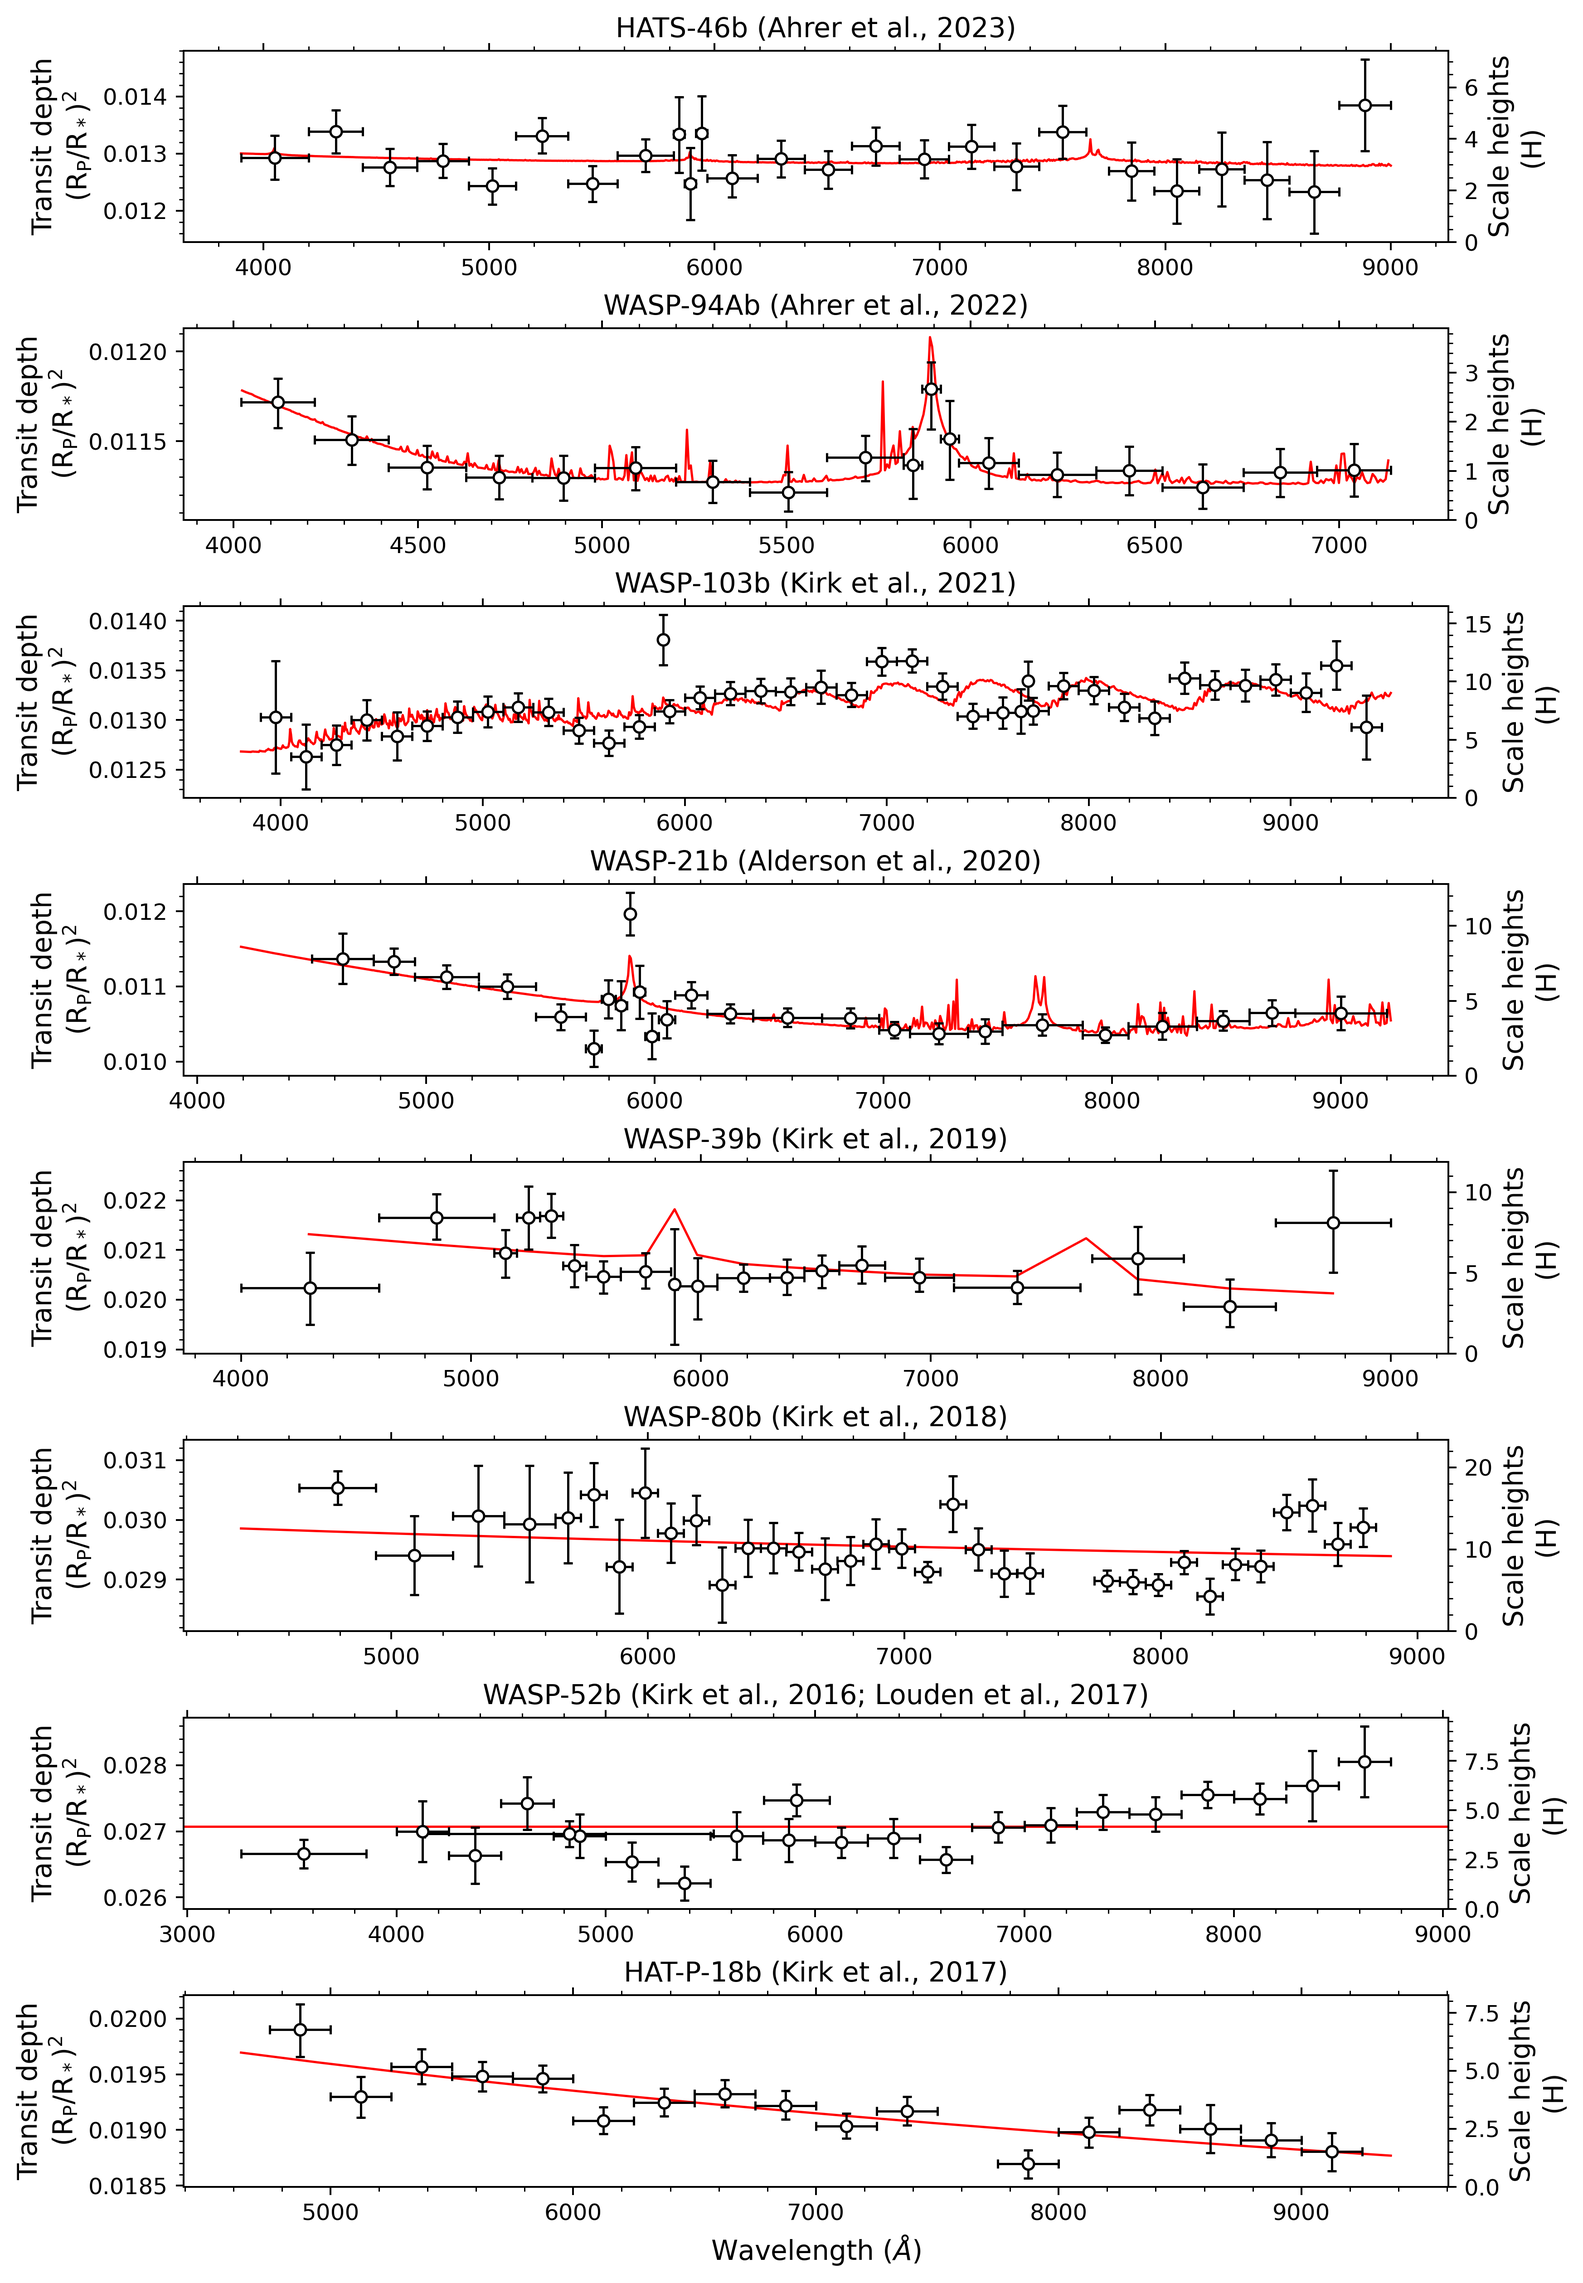
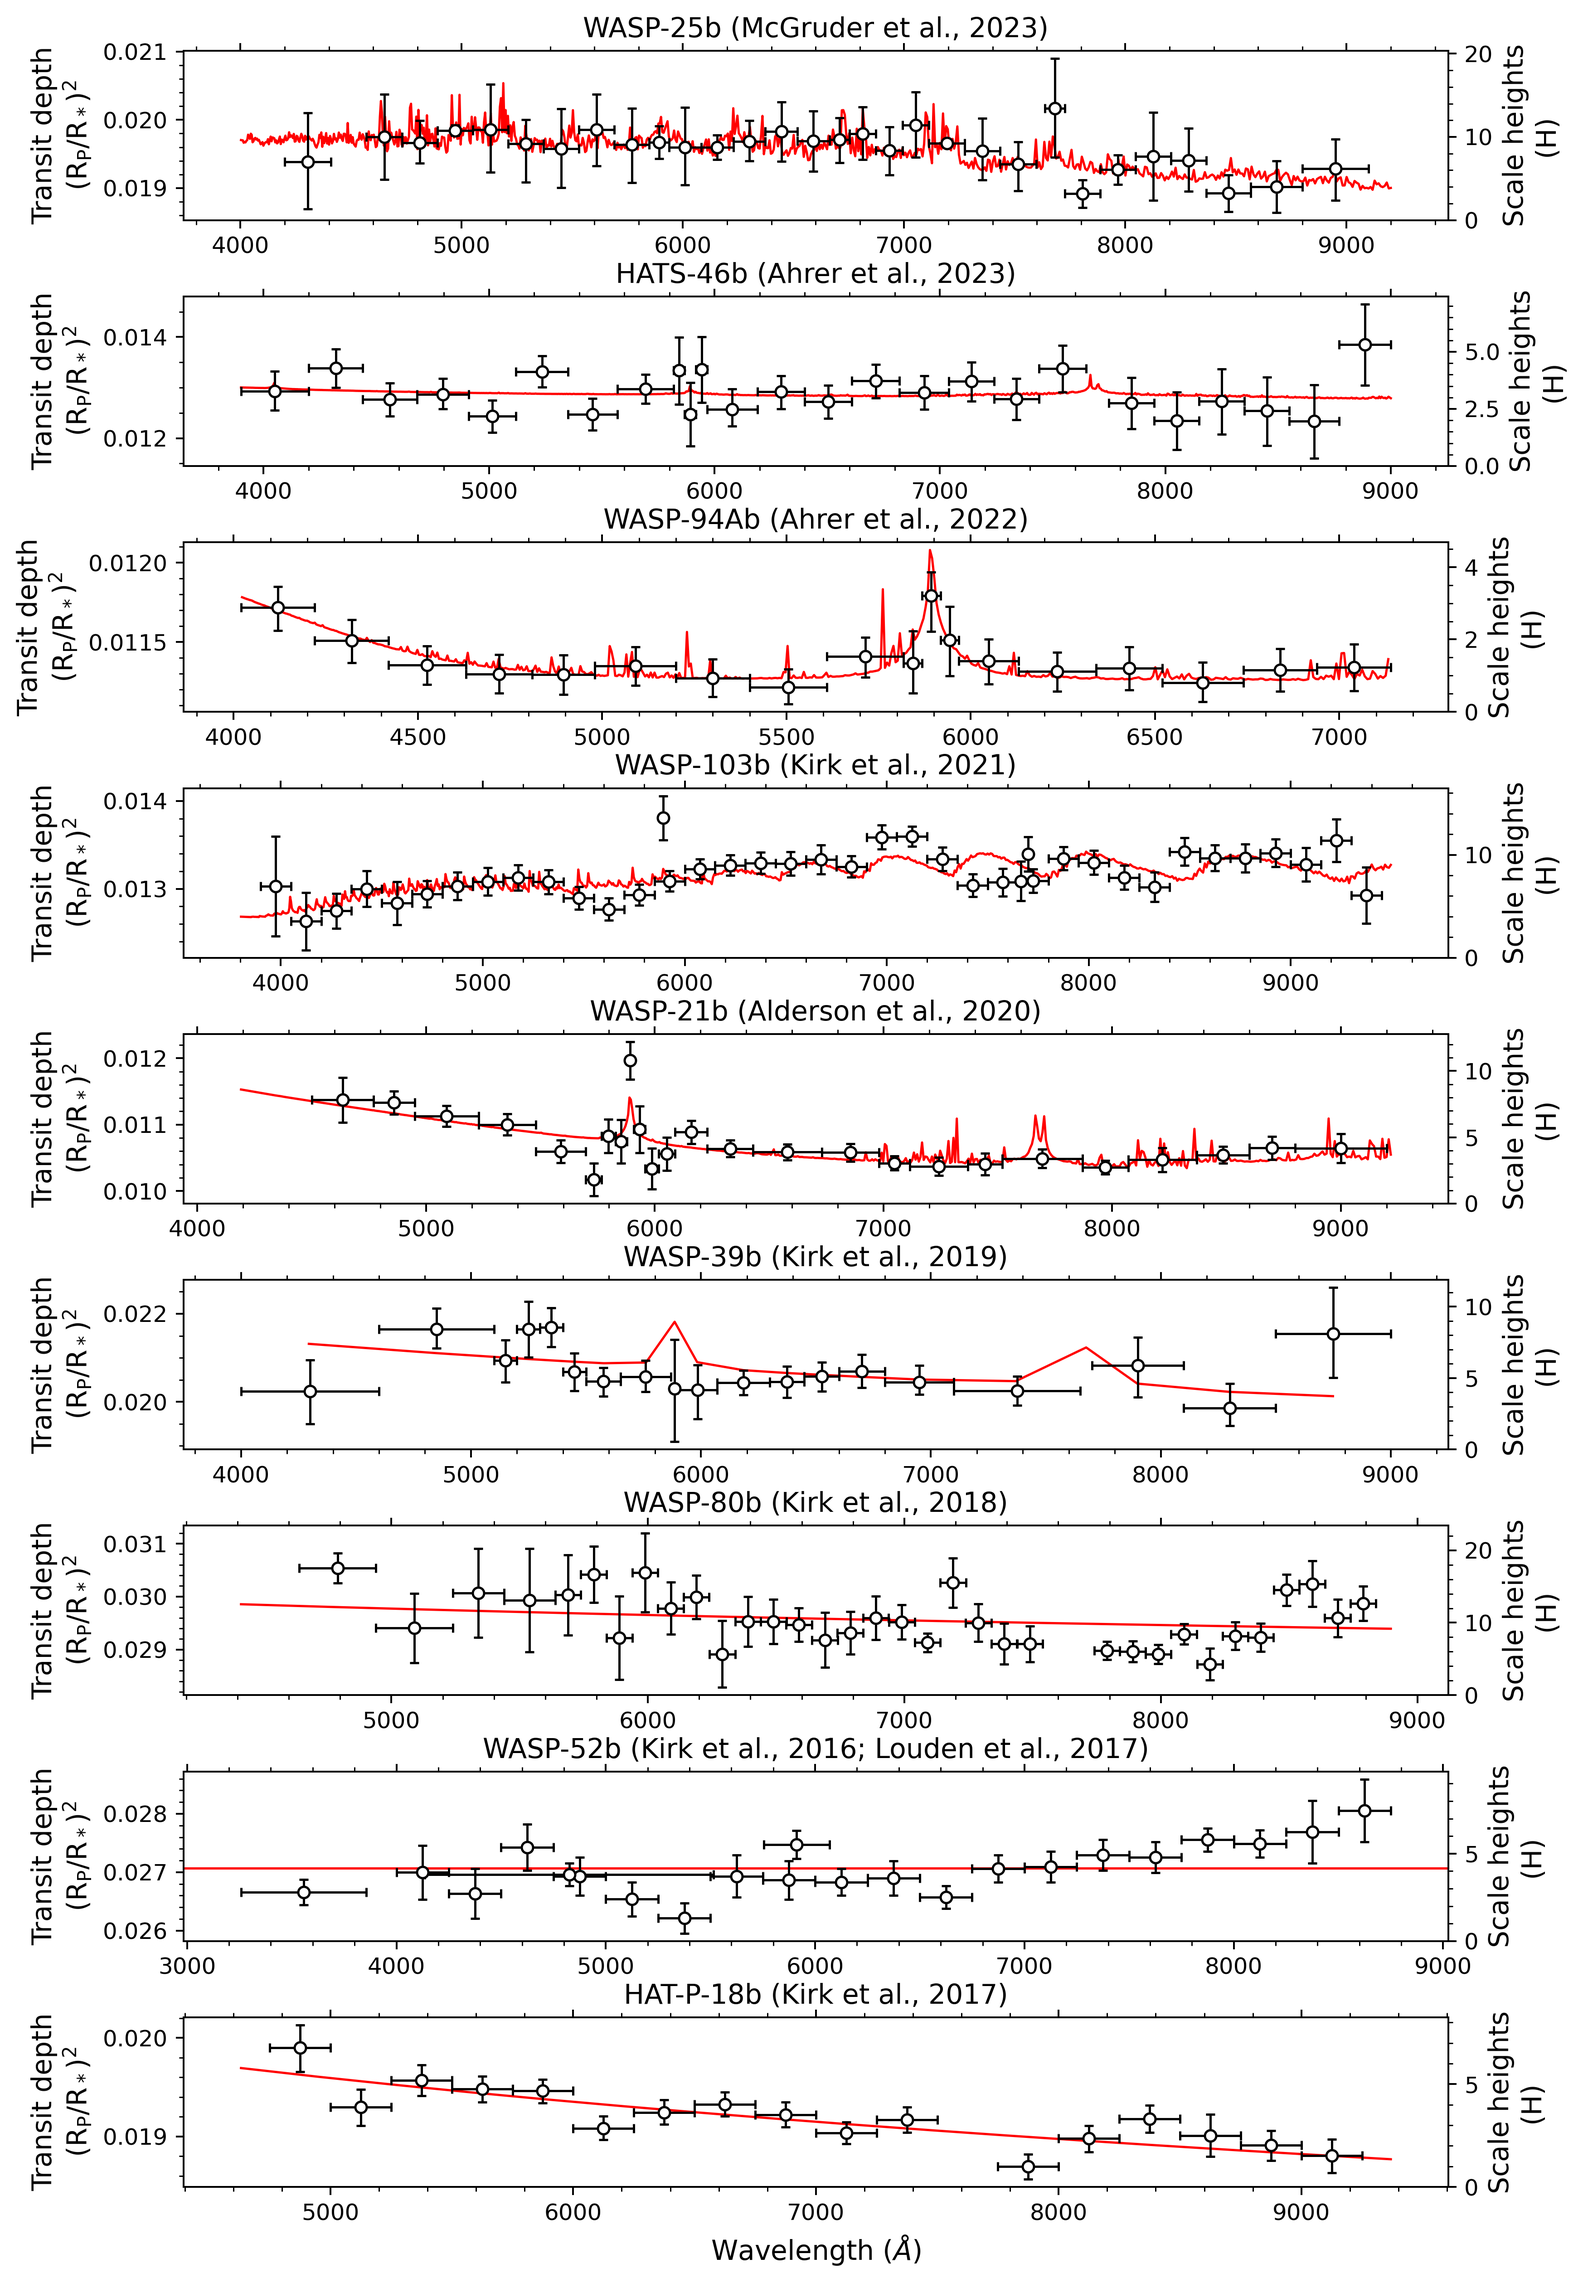
updated LRG-BEASTS with Chima's W25 result and added my Cycle 2 JWST programme

diff --git a/LRG-BEASTS.md b/LRG-BEASTS.md
@@ -31,9 +31,14 @@ In *mass* space, we are using our precise optical spectra to place tighter const
 
 The figure above shows the published results to date and demonstrates our ability to obtain a precision of around 1 atmospheric scale height with a 4-metre telescope. For all planets, the best fitting atmospheric forward model is plotted in red. The results are described in more detail below.
 
+
+**- WASP-25b** ([McGruder et al., 2023](https://arxiv.org/pdf/2308.06263.pdf))
+
+In this study, Harvard graduate student Chima McGruder combined 1 transit from LRG-BEASTS with 3 transits from ACCESS (Magellan/IMACS) to measure the transmission spectrum of WASP-25b. The best-fit model for this spectrum was one that included stellar contamination in the form of unocculted star spots with a temperature 1600 Kelvin cooler than the surrounding photosphere and that cover 9% of the star. The host star WASP-25 (G4 spectral type) is very similar to the Sun, highlighting how optical exoplanet spectra can help us to better understand star spots on Sun-like stars. Furthermore, the spectrum of WASP-25b was found to be consistent with a tentative relation that planets orbiting less metal-rich stars (in this case [Fe/H] = -0.2) are cloudier, perhaps because their aerosol particles are lighter and lofted to higher altitudes. However, additional observations are required to further test the existence of such a trend.
+
 **- HATS-46b** ([Ahrer et al., 2023](https://arxiv.org/pdf/2303.07381.pdf))
 
-The single transit observation of HATS-46b revealed a cloudy atmosphere with the flat transmission spectrum ruling out clear atmospheres at 3 sigma confidence. The most impressive aspect of this study was the remarkable precision achieved in the transmission spectrum for a star with Vmag = 13.6, with a median uncertainty in the transit depth of 357 ppm for ~200A-wide bins. This resulted from the observations being just 1.03X the photon noise, which demonstrates EFOSC2's fantastic capabilities to perform ground-based optical transmission spectroscopy. 
+The single transit observation of HATS-46b revealed a cloudy atmosphere with the flat transmission spectrum ruling out clear atmospheres at 3 sigma confidence. The most impressive aspect of this study was the remarkable precision achieved in the transmission spectrum for a star with Vmag = 13.6, with a median uncertainty in the transit depth of 357 ppm for ~200A-wide bins. This resulted from the observations being just 1.03X the photon noise, which demonstrates EFOSC2's fantastic capabilities to perform ground-based optical transmission spectroscopy.
 
 **- WASP-94Ab** ([Ahrer et al., 2022](https://arxiv.org/pdf/2201.02212.pdf))
 

diff --git a/research.md b/research.md
@@ -29,7 +29,9 @@ I am interested in understanding exoplanets across all sizes from Earth-sized to
 
 ### JWST
 
-I am involved in several projects using JWST to measure the atmospheres of exoplanets, including a number of [Earth-sized exoplanets](https://ui.adsabs.harvard.edu/abs/2023arXiv230104191L/abstract). I am also a key contributor to the exciting first results from the JWST Transiting Exoplanet Early Release Science program, including the [first detection of carbon dioxide in an exoplanet atmosphere](https://www.cfa.harvard.edu/news/astronomers-detect-carbon-dioxide-planet-first-time-jwst) and an [exquisite spectrum of a hot Jupiter](https://ui.adsabs.harvard.edu/abs/2023Natur.614..659R/abstract) that revealed a plethora of chemical species.
+I am the co-PI of an upcoming JWST Cycle 2 programme ([PID: 3838](https://www.stsci.edu/jwst/science-execution/program-information?id=3838)) that will obtain near-IR transmission spectra of a sample of 6 hot Jupiters, 3 whose orbital planes are aligned with their host stars’ spin axes, and 3 whose orbital planes are misaligned with their host stars’ spin axes. It is widely believed that aligned hot Jupiters migrated through a protoplanetary disc to end up on their close-in orbits, while misaligned hot Jupiters migrated after the dispersal of the protoplanetary disc, via dynamical interactions with additional bodies in the system (see [Dawson and Johnson, 2018](https://ui.adsabs.harvard.edu/abs/2018ARA%26A..56..175D/abstract) for an excellent overview of the proposed origins of hot Jupiters). My programme will test whether the chemical composition of hot Jupiters depends upon how a planet migrated and will offer novel tests of planet formation models.  
+
+Beyond my Cycle 2 programme, I am involved in several Cycle 1 programmes that are using JWST to measure the atmospheres of exoplanets, including a number of [Earth-sized exoplanets](https://ui.adsabs.harvard.edu/abs/2023arXiv230104191L/abstract). I was also a key contributor to the exciting first results from the JWST Transiting Exoplanet Early Release Science program, including the [first detection of carbon dioxide in an exoplanet atmosphere](https://www.cfa.harvard.edu/news/astronomers-detect-carbon-dioxide-planet-first-time-jwst) and an [exquisite spectrum of a hot Jupiter](https://ui.adsabs.harvard.edu/abs/2023Natur.614..659R/abstract) that revealed a plethora of chemical species.
 
 My involvement in JWST-related science has primarily been via the development of my own independent pipeline, [**Tiberius**](https://github.com/JamesKirk11/Tiberius), that can extract exoplanet atmospheric spectra from raw JWST data files.
 
